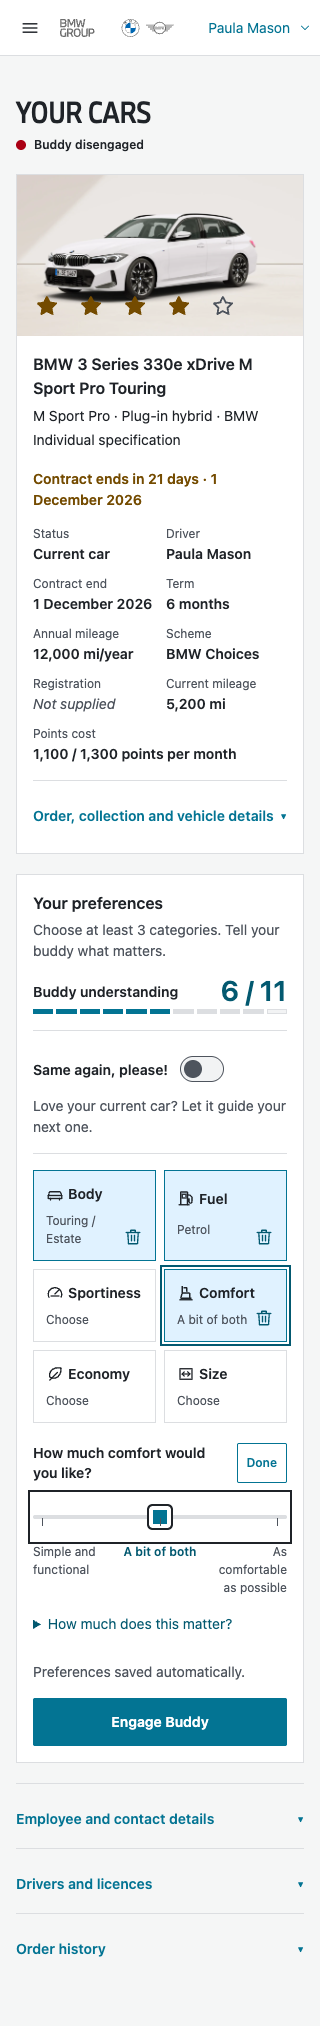
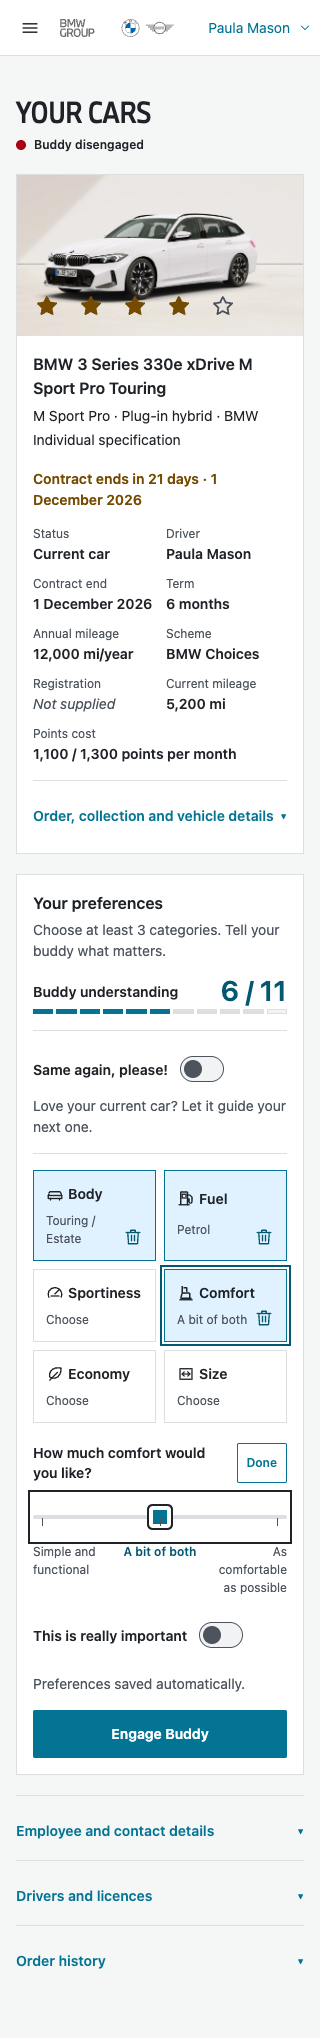
docs: simplify mockup preference importance

diff --git a/docs/gcsp/mockups/account-preferences-2026-11-10/mockup.js b/docs/gcsp/mockups/account-preferences-2026-11-10/mockup.js
@@ -38,6 +38,10 @@ const CATEGORIES = [
     options: options(['0', 'Compact'], ['50', 'A bit of both'], ['100', 'Spacious']) },
 ];
 
+// No selected preference means no importance. Chosen preferences default to medium.
+const preferenceWeights = (values, weights) => Object.fromEntries(Object.keys(values)
+  .map((id) => [id, weights?.[id] === 'high' ? 'high' : 'medium']));
+
 function validState(value) {
   if (!value || typeof value !== 'object') return structuredClone(EMPTY);
   const values = {};
@@ -49,7 +53,7 @@ function validState(value) {
       if (selected.length) values[category.id] = selected;
     } else if (allowed.has(supplied)) values[category.id] = category.multi ? [supplied] : supplied;
   }
-  const weights = Object.fromEntries(Object.entries(value.weights ?? {}).filter(([key, v]) => CATEGORIES.some((c) => c.id === key) && ['low', 'medium', 'high'].includes(v)));
+  const weights = preferenceWeights(values, value.weights);
   return { values, weights, same: value.same === true, rating: Number.isInteger(value.rating) && value.rating >= 1 && value.rating <= 5 ? value.rating : 0,
     engaged: value.engaged === true && (value.same === true || Object.keys(values).length >= 3) };
 }
@@ -74,6 +78,7 @@ const store = () => {
   catch { say('Your changes could not be saved. Check your browser storage.'); message.classList.add('is-error'); return false; }
 };
 const savePreferences = (confirmation = 'Preferences saved automatically.') => {
+  state.weights = preferenceWeights(state.values, state.weights);
   const mustDisengage = state.engaged && !state.same && count() < 3;
   if (mustDisengage) state.engaged = false;
   update();
@@ -152,6 +157,7 @@ preferenceHead.append(preferenceIntro, scorePanel);
 const modeRow = el('div', 'concept-mode');
 const toggle = checkboxField({ id: 'same-again', label: 'Same again, please!', checked: state.same,
   onChange: (same) => { state.same = same; openCategory = null; pendingRemoval = null; renderOptions(); savePreferences(); } });
+toggle.root.classList.add('concept-switch');
 toggle.input.setAttribute('role', 'switch'); toggle.input.setAttribute('aria-describedby', 'same-again-consequence');
 const modeNote = el('p', 'gcsp-note'); modeNote.id = 'same-again-consequence';
 modeRow.append(toggle.root, modeNote);
@@ -224,10 +230,13 @@ function renderOptions() {
     category.options.forEach((option) => labels.append(el('span', '', option.label)));
     choices.append(labels); syncLabels(value);
   }
-  const importance = el('details', 'concept-importance'); importance.append(el('summary', '', 'How much does this matter?'));
-  const weight = renderOptionList({ id: `importance-${category.id}`, options: options(['low', 'A little'], ['medium', 'Quite a bit'], ['high', 'A lot']) }, null,
-    { value: state.weights[category.id] ?? null, ariaLabel: `Importance of ${category.label}`, onValueChange: (value) => { state.weights[category.id] = value; savePreferences(); } });
-  importance.append(weight.list); optionPanel.append(heading, choices, importance);
+  const importance = el('div', 'concept-importance');
+  const weight = checkboxField({ id: `importance-${category.id}`, label: 'This is really important',
+    checked: state.weights[category.id] === 'high',
+    onChange: (important) => { state.weights[category.id] = important ? 'high' : 'medium'; savePreferences(); } });
+  weight.root.classList.add('concept-switch'); weight.input.setAttribute('role', 'switch');
+  const hint = el('p', 'gcsp-note concept-importance-hint', 'Choose a preference first.'); hint.id = 'importance-hint';
+  importance.append(weight.root, hint); optionPanel.append(heading, choices, importance);
 }
 
 function update() {
@@ -239,6 +248,15 @@ function update() {
   toggle.input.checked = state.same;
   modeNote.textContent = state.same ? 'Your current car leads. Your other choices are kept.' : 'Love your current car? Let it guide your next one.';
   categories.classList.toggle('is-disabled', state.same);
+  const importanceInput = optionPanel.querySelector('[role="switch"]');
+  if (importanceInput) {
+    const considered = state.values[openCategory] !== undefined;
+    importanceInput.disabled = !considered || state.same;
+    importanceInput.checked = considered && state.weights[openCategory] === 'high';
+    optionPanel.querySelector('.concept-importance-hint').hidden = considered;
+    if (considered) importanceInput.removeAttribute('aria-describedby');
+    else importanceInput.setAttribute('aria-describedby', 'importance-hint');
+  }
   for (const category of CATEGORIES) {
     const nodes = categoryNodes.get(category.id); const selected = state.values[category.id];
     const values = Array.isArray(selected) ? selected : selected === undefined ? [] : [selected];

diff --git a/docs/gcsp/mockups/account-preferences-2026-11-10/mockup.css b/docs/gcsp/mockups/account-preferences-2026-11-10/mockup.css
@@ -40,12 +40,14 @@ body { margin: 0; }
 .account-concept .concept-score-meter i:last-child { background: var(--gcsp-surface-muted); border: 1px solid var(--gcsp-divider); }
 .account-concept .concept-score-meter i:last-child.is-filled { background: var(--gcsp-accent-strong); border-color: var(--gcsp-accent-strong); }
 .account-concept .concept-mode { display: flex; align-items: center; justify-content: space-between; gap: var(--gcsp-space-4); padding-block: var(--gcsp-space-4); border-block: 1px solid var(--gcsp-divider); }
-.account-concept .concept-mode .gcsp-check { position: relative; display: flex; flex-direction: row-reverse; align-items: center; gap: var(--gcsp-space-3); margin: 0; min-height: 44px; }
-.account-concept .concept-mode .gcsp-check label { font-weight: var(--gcsp-font-strong-weight); cursor: pointer; }
-.account-concept .concept-mode .gcsp-check input { appearance: none; width: 44px; height: 26px; border: 1px solid var(--gcsp-text-muted); border-radius: 14px; background: var(--gcsp-surface-muted); position: relative; flex: none; cursor: pointer; margin: 0; }
-.account-concept .concept-mode .gcsp-check input::after { content: ''; display: block; width: 18px; height: 18px; background: var(--gcsp-text-muted); border-radius: 50%; position: absolute; top: 3px; left: 3px; transition: transform var(--gcsp-motion) ease; }
-.account-concept .concept-mode .gcsp-check input:checked { background: var(--gcsp-accent); border-color: var(--gcsp-accent); }
-.account-concept .concept-mode .gcsp-check input:checked::after { background: var(--gcsp-on-accent); transform: translateX(18px); }
+.account-concept .concept-switch { position: relative; display: flex; flex-direction: row-reverse; align-items: center; gap: var(--gcsp-space-3); margin: 0; min-height: 44px; }
+.account-concept .concept-switch label { font-weight: var(--gcsp-font-strong-weight); cursor: pointer; }
+.account-concept .concept-switch input { appearance: none; width: 44px; height: 26px; border: 1px solid var(--gcsp-text-muted); border-radius: 14px; background: var(--gcsp-surface-muted); position: relative; flex: none; cursor: pointer; margin: 0; }
+.account-concept .concept-switch input::after { content: ''; display: block; width: 18px; height: 18px; background: var(--gcsp-text-muted); border-radius: 50%; position: absolute; top: 3px; left: 3px; transition: transform var(--gcsp-motion) ease; }
+.account-concept .concept-switch input:checked { background: var(--gcsp-accent); border-color: var(--gcsp-accent); }
+.account-concept .concept-switch input:checked::after { background: var(--gcsp-on-accent); transform: translateX(18px); }
+.account-concept .concept-switch:has(input:disabled) { opacity: .5; }
+.account-concept .concept-switch:has(input:disabled) label { cursor: default; }
 .account-concept .concept-categories { display: grid; grid-template-columns: repeat(6, minmax(0, 1fr)); gap: var(--gcsp-space-3); }
 .account-concept .concept-category { position: relative; display: flex; align-items: stretch; border: 1px solid var(--gcsp-divider); min-width: 0; }
 .account-concept .concept-category.is-considered { background: var(--gcsp-accent-soft); border-color: var(--gcsp-accent); }
@@ -74,8 +76,7 @@ body { margin: 0; }
 .account-concept .concept-slider-labels span:nth-child(2)::before { left: 50%; }
 .account-concept .concept-slider-labels span:last-child::before { left: auto; right: 9px; }
 .account-concept .concept-slider-labels .is-current { color: var(--gcsp-accent-strong); font-weight: var(--gcsp-font-strong-weight); }
-.account-concept .concept-importance { margin-top: var(--gcsp-space-4); max-width: 600px; }
-.account-concept .concept-importance summary { cursor: pointer; color: var(--gcsp-accent-strong); min-height: 32px; }
+.account-concept .concept-importance { display: flex; align-items: center; gap: var(--gcsp-space-4); flex-wrap: wrap; margin-top: var(--gcsp-space-4); max-width: 720px; }
 .account-concept .concept-foot { display: flex; align-items: center; justify-content: space-between; gap: var(--gcsp-space-4); }
 .account-concept .concept-foot .vm-btn { min-height: 48px; padding-inline: var(--gcsp-space-6); font-size: var(--gcsp-font-size-regular); }
 .account-concept .concept-save-message { margin: 0; color: var(--gcsp-text-muted); }

diff --git a/docs/gcsp/mockups/account-preferences-2026-11-10/README.md b/docs/gcsp/mockups/account-preferences-2026-11-10/README.md
@@ -27,6 +27,8 @@ Russell's subsequent direction, 10 November 2026, was added to FUCQ-358 as comme
 
 Further mockup feedback after that Jira comment: keep Buddy status and its lamp, remove both header allowance lines, and add **Points cost** to the current-car facts as **1,100 / 1,300 points per month** (current cost / budget). This row uses the full facts width. The earlier standalone current-cost line is removed. These refinements are captured here for the ongoing mockup discussion; no further Jira mutation or Story authoring has been performed.
 
+Russell then replaced the importance disclosure and three-choice weight control with a single visible **This is really important** switch in the open category. A chosen preference has medium importance with the switch off and high importance with it on. An unchosen category is unimportant: it has no saved weight, and its switch is disabled and unchecked with “Choose a preference first.” Clearing the final Body/Fuel choice or confirming bin removal clears its importance; choosing again starts at medium. Cancelling removal, reloading or temporarily using Same again preserves existing high importance. Importance does not add categories or increase the illustrative understanding score. These agreed mockup semantics are captured locally for the ongoing discussion.
+
 Proposed interaction interpretation for discussion: the three-category minimum gates engaging Buddy, while incomplete selections still save. Same again bypasses that minimum. If an engaged Buddy loses its minimum because a category is removed or Same again is turned off, the mockup disengages it and explains the reason. This behaviour is a design proposal, not a change to a production contract.
 
 ## Findings and open decisions
@@ -34,7 +36,7 @@ Proposed interaction interpretation for discussion: the three-category minimum g
 - Current layout: `blocks/gcsp/employee/gcsp-employee.css` caps `.gcsp-rep` at 1120px with `margin: 0`. The shell owns the page inset. The proposal overrides the page composition inside the mockup only: a centred canvas up to 1680px and a flexible image column; facts remain around 480px wide.
 - Existing `currentCarFeedback` stores only `preserve`, `change`, `state`, `source`. The strict validators in `server/gcsp/brief/index.js`, `server/gcsp/brief/editor.js`, `blocks/gcsp/brief/brief-controller.js` and recommendation input reject an added star rating today. A 1–5 current-car rating therefore needs an explicit contract/model extension. Preserve/change is not a star rating or observed after-use satisfaction.
 - No suitable buddy/model confidence score was found in the current recommendation/brief contracts or code. Vehicle-evidence `confidence` describes source assurance; candidate fit is a different concept. The mockup deliberately uses an illustrative input-completeness mapping: no category = 1, one = 3, two = 4, three = 6, four = 7, five = 9, six = 10; Same again = 11. This is not a calibrated confidence estimate. Decide the production basis before authoring its Story.
-- Six supported categories are used: body, fuel, sportiness, comfort, economy, size. Prototype qualitative choices for numeric axes illustrate simplification; they are not new active defaults. Independent preference position, importance and indifference remain design/contract questions. This proposal does not silently revise the 1 November requirement for separate importance controls.
+- Six supported categories are used: body, fuel, sportiness, comfort, economy, size. Prototype qualitative choices for numeric axes illustrate simplification; they are not new active defaults. Preference position and importance remain independent. Russell's latest decision defines unchosen as unimportant, chosen as medium, and the separate “This is really important” switch as high. Production contract and adapter changes remain future Story scope.
 - “At least three categories” is interpreted as three considered categories: selecting a Body/Fuel option or opening a three-stop category to accept its default midpoint. Same again bypasses that minimum. Untoggling restores the retained choices. Switching modes preserves the rating. Eligibility, affordability, essential needs and permission to search/hold must survive either mode in a future implementation.
 - Rating is a signal, not permission to search, reserve or order. Define “similar or better”, the neutral three-star case and how a later essential need takes precedence before implementing matching behaviour.
 - Preference, rating and engagement interactions save only to this mockup's own localStorage key. They never call production APIs. Reload keeps the local design state. Feedback is discussed in this Codex chat; there is no comment form or inaccessible feedback store.
@@ -49,7 +51,7 @@ Proposed extensions are confined to this mockup: a switch treatment around `chec
 
 Run identity: `account-preferences-20261110-01a1c6a0`. Changed paths are this mockup directory and two narrow detector exceptions in `.impeccable/config.json`. Affected boundaries: browser module imports of the existing shell and controls, localStorage, image and font assets; no HTTP application services. Regression: shared control reuse and CSP-safe module loading. No application callers consume this proposal.
 
-Selected checks: `node --check` on mockup JavaScript; the existing `server/test/ui-ratchet.test.js` (scoped, no baseline edits); a single headless browser worker at 1920, 1440, 1100, 1024, 900, 820, 375 and 320px, including empty, chosen, validation, remove-confirmation, Same again, reload, keyboard and long/missing-car states. The revised proof also checks transparent rating containment within the actual rendered bitmap, intrinsic image sizing, header allowance removal, current cost/budget facts, three-stop slider defaults/immediate persistence, automatic saves, engagement persistence, static red/green lamps, selected-choice accessible names and missing-image text contrast. Source checks cover this docs path because the production ratchet's roots do not. Impeccable's changed-target detector runs after rendering. Excluded: full server/retail suites, live matching, offer/order workflows, database writes and real confidence validation because production code is unchanged and no live feature is implemented. The ratchet's passing result is reused for unchanged production source/test/config identities.
+Selected checks: `node --check` on mockup JavaScript; the existing `server/test/ui-ratchet.test.js` (scoped, no baseline edits); a single headless browser worker at 1920, 1440, 1100, 1024, 900, 820, 375 and 320px, including empty, chosen, validation, remove-confirmation, Same again, reload, keyboard and long/missing-car states. The revised proof also checks transparent rating containment within the actual rendered bitmap, intrinsic image sizing, header allowance removal, current cost/budget facts, three-stop slider defaults/immediate persistence, automatic saves, engagement persistence, static red/green lamps, selected-choice accessible names and missing-image text contrast. Importance checks cover disabled/medium/high states, label and Space activation, retained keyboard focus, conditional accessible hints, reload, clearing the last choice, removal/cancel, Same again retention and legacy/orphan weight normalization. Source checks cover this docs path because the production ratchet's roots do not. Impeccable's changed-target detector supports rendered inspection. Excluded: full server/retail suites, live matching, offer/order workflows, database writes and real confidence validation because production code is unchanged and no live feature is implemented. The ratchet's passing result is reused for unchanged production source/test/config identities.
 
 Expected review budget: under 10 minutes per browser chunk, under 128MiB scratch and 800MiB RAM, one browser process. The supervisor uses `_tools/test_resources.py`'s `Scratch` manifest outside its generated absolute root, propagates TMPDIR/TMP/TEMP, closes browser/server processes in `finally`, then removes and verifies scratch. Browser profile is a bounded local compatibility working set; retained outputs are only small screenshots and a concise JSON review summary here. No archives or outputs approaching 256MiB are planned. Russell explicitly waived the capacity admission limit for this session; actual machine limits still apply. The independent review and its correction/recheck status are recorded in `review/visual-review.md`.
 
@@ -57,4 +59,4 @@ Expected review budget: under 10 minutes per browser chunk, under 128MiB scratch
 
 Serve the repository with its existing static server, then open `docs/gcsp/mockups/account-preferences-2026-11-10/index.html`. Query `?state=selected` opens a three-category example; `?state=engaged` shows the green Buddy status; `?state=same` opens Same again; `?state=long` and `?state=missing` exercise content extremes. The default opens the local saved state or initial categories-only state; `?state=empty` resets this browser's local mockup state.
 
-The final review records 93 passing scoped browser checks across 20 screenshots; the independent corrected review is recorded separately. See `review/visual-review.md` for the critique, corrected findings and the two narrow Impeccable detector exceptions. User Stories remain unwritten pending discussion.
+The latest review records 125 passing scoped browser checks across 25 screenshots, including desktop and 320px importance states. See `review/visual-review.md` for the independent critique, corrected findings and the two narrow Impeccable detector exceptions. User Stories remain unwritten pending discussion.

diff --git a/docs/gcsp/mockups/account-preferences-2026-11-10/review/visual-review.md b/docs/gcsp/mockups/account-preferences-2026-11-10/review/visual-review.md
@@ -4,7 +4,11 @@
 
 ## Visual and usability verdict
 
-The earlier independent PASS missed the actual image-boundary issue shown in the user's screenshot. The media-container bounds passed while the contained bitmap had letterboxing. The launcher corrected image sizing and inspected 820, 900, 1024, 1440 and 375px renders, including the new Points cost fact. Independent reviewer **Road Runner** then viewed all 20 final renders and verified all three source hashes against the final browser receipt. **Corrected verdict: PASS**, with no remaining actionable findings. This replaces the earlier insufficient media-container-only overlay assessment.
+**Latest verdict: PASS**, with no remaining actionable findings. Russell's importance refinement replaces the disclosure and three choices with one inline **This is really important** switch after the active category's options. The launcher inspected desktop and 320px disabled/medium/high renders and long slider content. Road Runner independently inspected all five new importance captures plus the current slider-default, Same again, 820px selected, and 320px long/options/removal states, and matched all three source hashes to the final browser receipt. The label and switch fit on one row at 320px, off/on states are distinct, and the Buddy action remains separate below. Selected preferences default to medium, the switch sets high, and unchosen categories have no weight. Clearing the final Body/Fuel option or confirming removal clears its importance; cancel, reload and Same again preserve high importance where applicable.
+
+Independent review found one accessibility correction during this refinement: the disabled-state hint was still explicitly referenced when hidden, so it could be announced for a chosen preference. The reference now exists only while the hint applies. The corrected source and rendered result were independently reinspected. Native label and Space activation work, toggling retains focus, and importance does not inflate the understanding score.
+
+The earlier independent PASS missed the actual image-boundary issue shown in the user's screenshot. The media-container bounds passed while the contained bitmap had letterboxing. The launcher corrected image sizing and inspected 820, 900, 1024, 1440 and 375px renders, including the new Points cost fact. Road Runner then viewed all 20 prior renders and verified their source hashes. The corrected actual-bitmap overlay assessment remains in force and replaces that earlier insufficient media-container-only assessment.
 
 The wider centred page gives the car useful prominence while keeping the existing facts compact and identifiable. The image now determines its media wrapper's height, preserving the complete bitmap. Stars sit transparently inside the actual displayed image at every inspected width: 24px visuals with 44px targets, without a separate rating card. Considered categories show their saved choices, a distinct fill and a separate bin action. Three-stop sliders show all choices with a clear midpoint, including long endpoint labels at 320px. Opening an unset slider selects and auto-saves “A bit of both”; Done only closes it. Unopened categories remain unset.
 
@@ -14,11 +18,11 @@ Two earlier independent MINOR findings were corrected and reinspected: the missi
 
 ## Verification and limits
 
-`browser-review.json` records **93 passing scoped checks**, **20 screenshots**, no failed assertions and no uncaught page errors. The final supervised browser pass took 5.40 seconds. Widths: 1920, 1440, 1100, 1024, 900, 820, 375 and 320px. The proof now calculates the actual contained bitmap rectangle, checks the rating targets have at least 4px inset, and verifies that the media wrapper has no internal letterboxing. It also checks allowance removal and the labelled current cost/budget fact. A final visual correction gave Points cost the full facts width so it does not wrap unnecessarily inside one column; the final renders were inspected again. States cover empty, selected, options/default slider, validation, removal/cancel, Same again, missing image, long content and engaged/disengaged Buddy. Keyboard Home/End and arrow movement, reload persistence without Done, rating persistence, confirmed deletion, minimum engagement and score caps were exercised. Both JavaScript sources passed `node --check`.
+`browser-review.json` records **125 passing scoped checks**, **25 screenshots**, no failed assertions and no uncaught page errors. The latest supervised browser pass took 6.76 seconds. Widths: 1920, 1440, 1100, 1024, 900, 820, 375 and 320px. The proof calculates the actual contained bitmap rectangle, checks the rating targets have at least 4px inset, and verifies that the media wrapper has no internal letterboxing. It also checks allowance removal and the labelled current cost/budget fact. Points cost uses the full facts width. States cover empty, selected, options/default slider, validation, removal/cancel, Same again, missing image, long content and engaged/disengaged Buddy. Keyboard Home/End and arrow movement, reload persistence without Done, rating persistence, confirmed deletion, minimum engagement and score caps were exercised. New importance checks cover disabled/medium/high states, label/Space activation, retained focus, conditional accessible hints, reload, clearing the last choice, removal/cancel, Same again retention and legacy/orphan weight normalization. Both JavaScript sources passed `node --check`.
 
 The first added persistence assertion reloaded `?state=empty`, intentionally resetting the fixture. The proof was corrected to navigate to the base URL and verify persisted state. The final complete pass above is passing; the initial failed assertion and diagnosis remain in the local run receipts.
 
-The prior production UI ratchet passed and is reused because production source/test/config identities are unchanged. Its roots do not cover this docs-only mockup. Source checks cover external module loading and absence of inline script/event handlers. The actual Impeccable CLI returned `[]` for the changed page and sources. Its static/regex analysis supports the rendered critique; it does not replace it.
+The prior production UI ratchet passed and is reused because the relevant production UI source/test/config identities are unchanged. Concurrent FUCQ-309 server/documentation work is outside this mockup's boundaries. The ratchet's roots do not cover this docs-only mockup. Source checks cover external module loading and absence of inline script/event handlers. The actual Impeccable CLI returned `[]` for the changed page and sources. Its static/regex analysis supports the rendered critique; it does not replace it.
 
 Two narrow, file-scoped Impeccable ignore-value entries apply only to this mockup's `index.html`: `monotonous-spacing` traversed imported legacy CSS despite the rendered page's varied Density spacing; `pulsing-dot` matched an imported legacy rule whose element is never mounted here. Buddy's new lamp is static, verified in the browser. No rule-wide or file-wide suppression or ratchet baseline change was made.
 
@@ -32,6 +36,6 @@ Road Runner: reviewer/Opus, requested and selected `gpt-6.1-sol` with `high` eff
 
 ## Resources and cleanup
 
-All eleven manifest-owned scratch roots are verified absent. Aggregate measured peak allocation removed: **62,979,289 bytes**. Final browser peak scratch: **6,975,611 bytes**; peak process-group RSS: **231,669,760 bytes**. Bounded isolated local browser profiles were the declared compatibility exception and were removed. Owned browser/test child processes were closed and joined. No archive or 256MiB generated output was created.
+All twelve manifest-owned scratch roots are verified absent. Aggregate measured peak allocation removed: **69,954,900 bytes**. Latest browser peak scratch: **6,975,611 bytes**; peak process-group RSS: **255,721,472 bytes**. Bounded isolated local browser profiles were the declared compatibility exception and were removed. Owned browser/test child processes were closed and joined. No archive or 256MiB generated output was created.
 
 The read-only preview server at port 4877 (PID 80687) is intentionally retained for user discussion and separately recorded in `preview-service.json`. The task-created Jira OAuth tab was closed; user tabs were preserved. Screenshots, source/proof, concise JSON evidence and useful bounded failure diagnostics are retained. Local impact maps, ownership manifests and final receipt are under `.claude/test-runs/account-preferences-20261110-01a1c6a0/` and `.claude/test-runs/impact/`. Feedback is received in this Codex chat; the mockup has no separate comment form.
